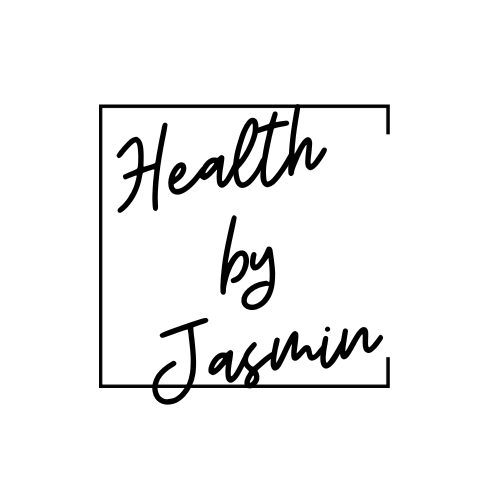
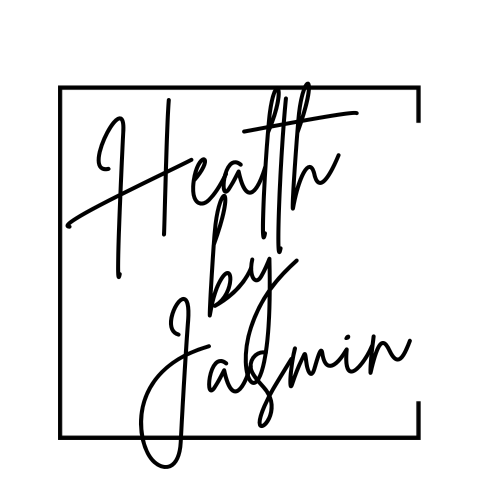
updated html and css file

Changed region(s): [[0.09, 0.15, 0.84, 0.96]]

diff --git a/app.css b/app.css
@@ -1,58 +1,106 @@
 body { /* this is general for the page*/
-    background: #e7ede9; 
+    background: #EDE9E3; 
     color: #A38F85;
     font-family: "Figtree", serif;
   }
   section {
     padding: 20px;
   }
-  hr {
-    border: 1px solid #A38F85;
+  hr { /*this is a line creating visual space between header and footer*/
+    border: 5px solid #A38F85;
   }
   
-  
+  /* this is design for navigation. This is also your flexbox*/
   .navbar { 
     padding: 10px;
-    background: #e7ede9;
+    background: #EDE9E3; 
     display: flex;
     justify-content: space-between;
     align-items: center;
 
     }
 
-    /* See on tablet (768px and up) as requested for the project */
-@media (min-width: 768px) {
-    section {
-      padding: 40px;
-    }
-     }
+    .logo {
+      width: 70px;
+      color:#D4B2A7;
+      font-family: "Great Vibes", cursive;
+      animation: bounce 2s infinite;
+      }
 
-    /* See on desktop (1024px and up) as requested for the project */
-@media (min-width: 1024px) {
-    .navbar {
-      display: flex;
-      justify-content: space-between;
-      align-items: center;
-      background: #e7ede9;
-      padding: 10px 20px;
-    }
-    }
+      @keyframes bounce {
+        0%, 100% {
+          transform: translateY(0); /* Original position */
+        }
+        50% {
+          transform: translateY(-10px); /* Moves up by 10px */
+        }
+      }
 
-  .logo {
-    width: 70px;
-    color: #D4B2A7;
-
-
-  }
-  /* adjusting links*/
+      /* adjusting links*/
   .nav-links a {
     text-decoration: none; /*removing underline, it is as default*/
-    color: black;
+    color: #A38F85;
     padding:20px;
   }
+
+  /* Make the navigation bar responsive */
+@media (max-width: 1024px) {
+  .navbar {
+      display: none; /* Hide the navbar on tablets and smaller devices */
+  }
+}
+
+    /*Grid for articles. This is also your CSS grid layout*/
+    .grid-container {
+      display: grid;
+      grid-template-columns: repeat(4, 1fr); /* creates 4 columns*/
+      /*grid-template-columns: repeat(auto-fill, minmax(300px, 1fr)); Example: automatically adjusts the number of columns */
+      gap: 10px;
+      margin: 0 auto;
+  }
+    /* Design for articles*/
+  article { 
+      background-color: #f4f4f4;
+      padding: 15px;
+      border-radius: 8px;
+  }
+    /*Design for images inside article*/
+  img { 
+      width: 100%;
+      height: auto;
+      border-radius: 8px;
+  }
+
+
+  /* Media Queries for Responsiveness */
+
+/* 1 Column for mobile (320px and up) */
+@media (max-width: 320px) {
+  .grid-container {
+      grid-template-columns: 1fr; /* 1 column on small screens */
+  }
+}
+
+/* 2 Columns for tablets (up to 768px) */
+@media (min-width: 321px) and (max-width: 768px) {
+  .grid-container {
+      grid-template-columns: repeat(2, 1fr); /* 2 columns for tablets */
+  }
+}
+
+/* 4 Columns for desktop (1024px and up) */
+@media (min-width: 1024px) {
+  .grid-container {
+      grid-template-columns: repeat(4, 1fr); /* 4 columns for desktop */
+  }
+
+  .navbar {
+      display: flex; /* Show the navbar on desktop */
+  }
+}
 
 
   footer {
     margin-top: auto; /* this pushes the footer to bottom?*/
-    color: #D4B2A7;
+    background: #EDE9E3; 
   }

diff --git a/index.html b/index.html
@@ -7,22 +7,62 @@
     <link rel="stylesheet" href="app.css">
 </head>
 <body>
+
   <section>
     <nav class="navbar">
         <h1 class="logo">HealthbyJasmin</h1>
       <div class="nav-links">
         <a href="#">Home</a>
         <a href="#">About</a>
-        <a href="#">Yoga</a>
+        <a href="#">Ashtanga Yoga</a>
         <a href="#">Ayurveda</a>
-        <a href="#">Contact</a>
+        <a href="#">Journal</a>
       </div>
     </nav>
   </section>
 
   <hr>
 
-  
+<!-- Here is where I put my grid -->
+
+<section class="grid-container">
+  <article>
+      <!--<img src="./photo.png" alt="Image description"/> -->
+      <div>
+          <h3>About</h3>
+          <p>Lorem ipsum dolor sit amet consectetur adipisicing elit. Cupiditate, fugit vitae. Dicta assumenda eveniet, distinctio, quisquam quo velit nemo adipisci ea excepturi numquam qui? Eaque quis earum provident amet voluptatibus?</p>
+      </div>
+  </article>
+</section>
+
+<section class="grid-container">
+  <article>
+      <img src="./ashtanga.jpg" alt="Ashtanga Yoga"/>
+      <h3>Ashtanga Yoga</h3>
+      <p>Lorem ipsum dolor sit amet consectetur adipisicing elit. Alias, rerum itaque. Eligendi aliquid incidunt accusantium? Accusamus at sint reprehenderit necessitatibus! Nostrum cumque natus voluptatibus vel temporibus magnam commodi eum provident.</p>
+  </article>
+</section>
+
+<section class="grid-container">
+  <article>
+      <img src="./ayurveda.jpg" alt="Herbmix"/>
+      <div>
+          <h3>Ayurveda</h3>
+          <p>Lorem ipsum dolor sit amet consectetur adipisicing elit. Cupiditate, fugit vitae. Dicta assumenda eveniet, distinctio, quisquam quo velit nemo adipisci ea excepturi numquam qui? Eaque quis earum provident amet voluptatibus?</p>
+      </div>
+  </article>
+</section>
+
+<section class="grid-container">
+  <article>
+      <img src="./ashtanga.jpg" alt="Ashtanga Yoga"/>
+      <h3>Workshop & Retreats</h3>
+      <p>Lorem ipsum dolor sit amet consectetur adipisicing elit. Alias, rerum itaque. Eligendi aliquid incidunt accusantium? Accusamus at sint reprehenderit necessitatibus! Nostrum cumque natus voluptatibus vel temporibus magnam commodi eum provident.</p>
+  </article>
+</section>
+
+
+  <hr>
   <footer>
     <p>© 2025 HealthbyJasmin</p>
     <a href="#">Instagram</a> <!-- Fake link, hur får jag denna i samma färg som ovan och bredvid inte under? -->
